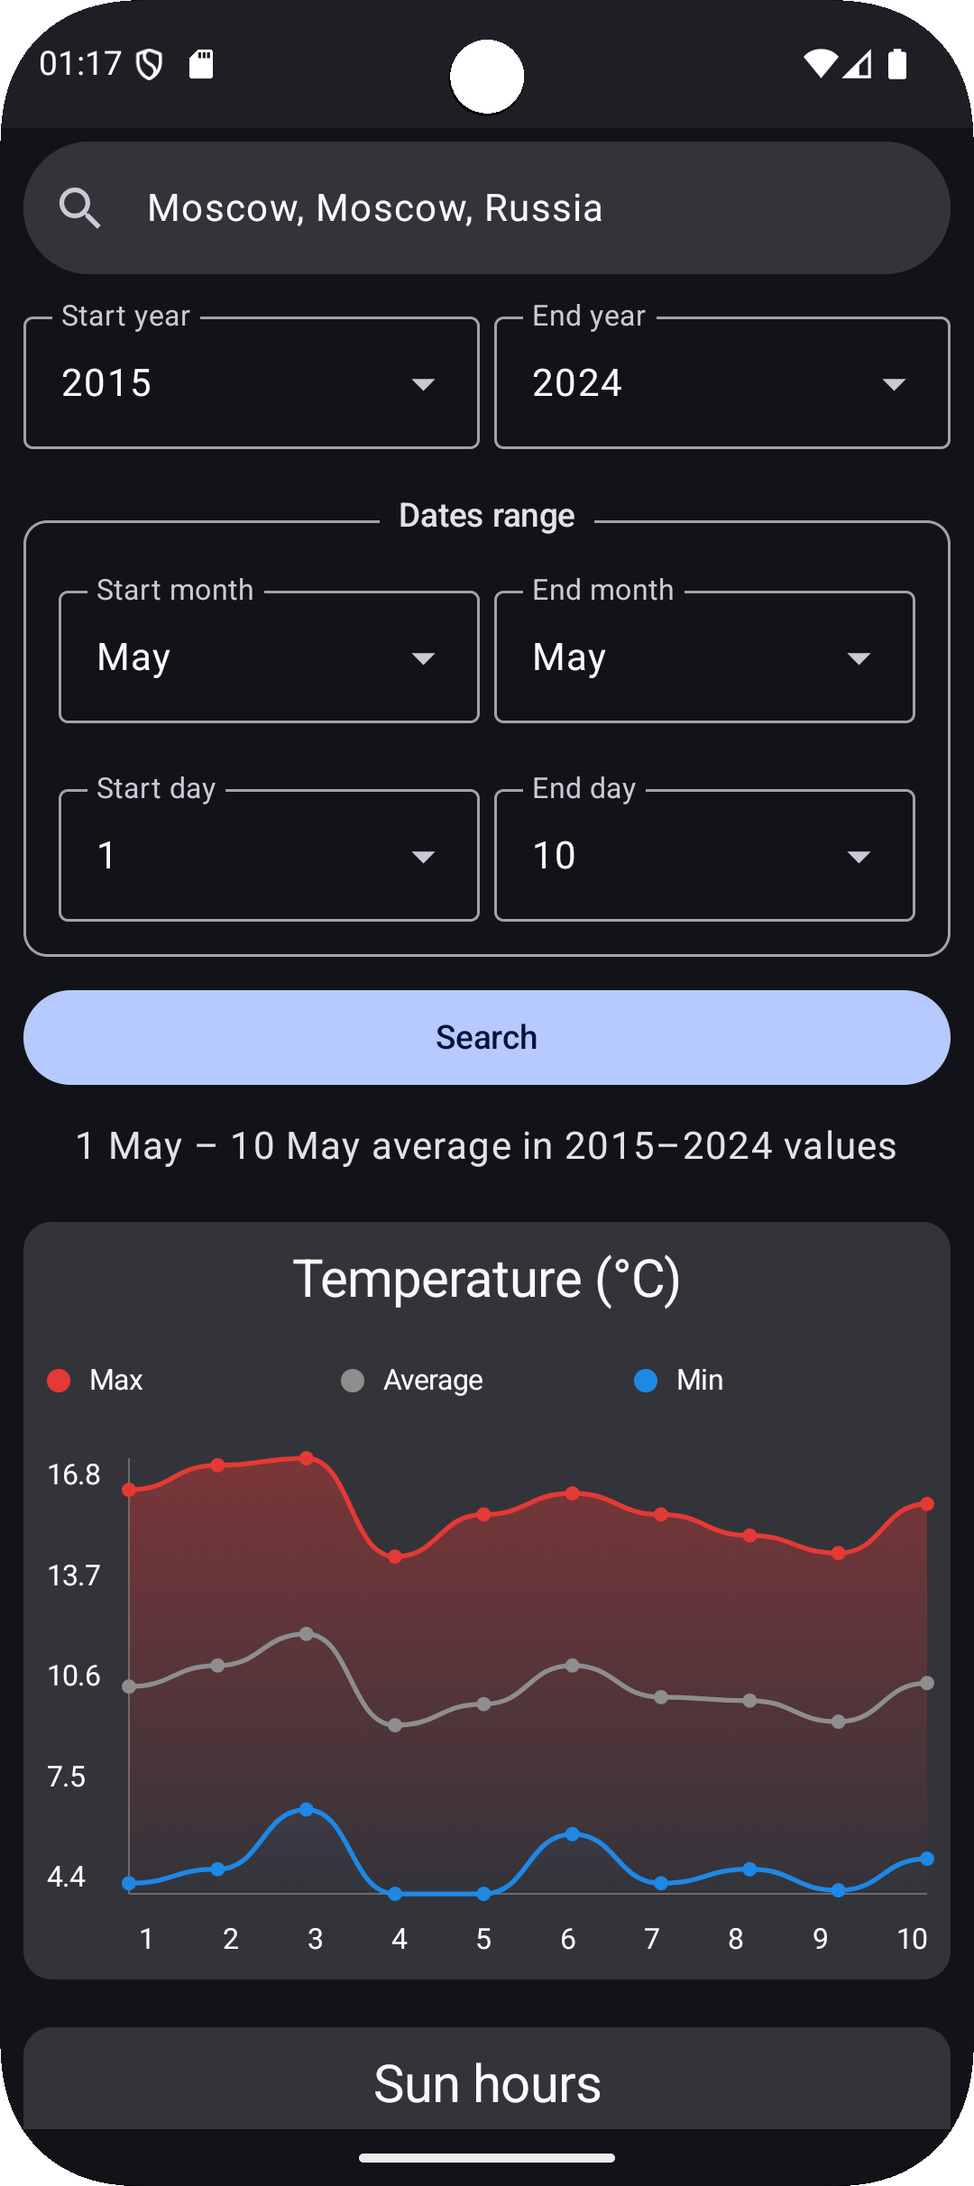
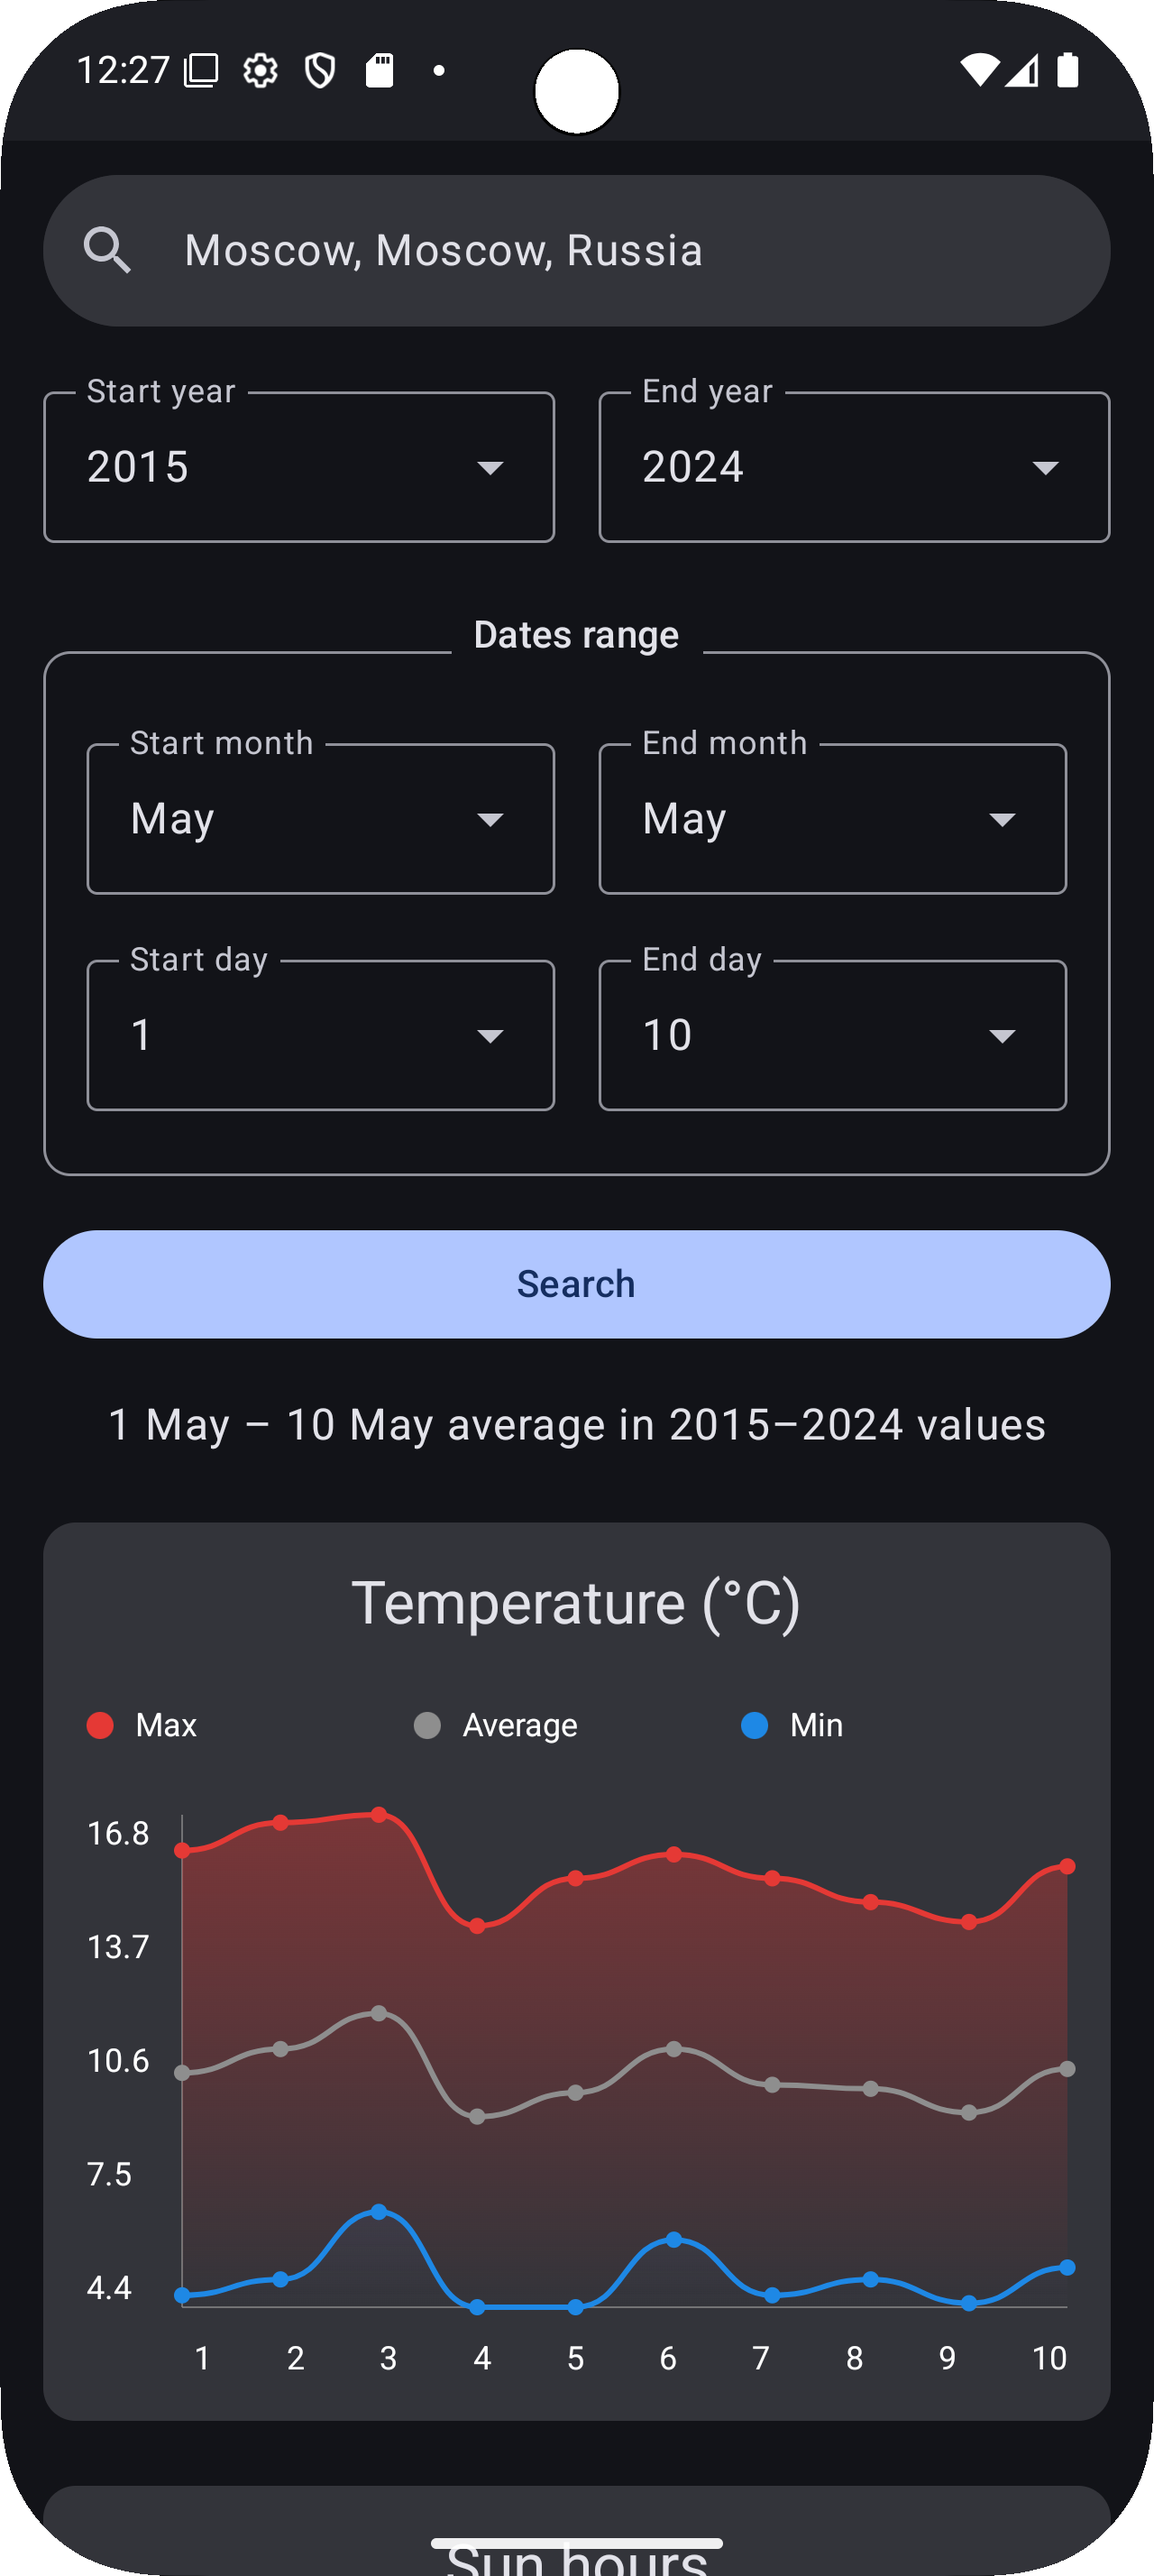
Refactor: Adjust padding in UI components and update screenshots
This commit modifies padding values in `LocationSearch.kt` and `MainScreenUI.kt` for improved layout. It also updates several screenshots to reflect these UI changes and updates the default deployment target in the IDE settings.

- In `LocationSearch.kt`, card padding is changed from `5.dp` to `6.dp`.
- In `MainScreenUI.kt`:
    - Removed bottom padding from the main `Column`.
    - Added `16.dp` bottom padding to the "Data Source" `Row`.
- Updated screenshots: `graph1.png`, `graph2.png`, `main_screen.png`, `search.png`.
- Updated the default deployment target in `deploymentTargetSelector.xml` to `Pixel_9_Pro.avd`.

diff --git a/app/src/main/java/com/hsact/sunplanner/ui/mainscreen/MainScreenUI.kt b/app/src/main/java/com/hsact/sunplanner/ui/mainscreen/MainScreenUI.kt
@@ -127,11 +127,10 @@ fun MainScreen(
             }
         }
         val topPadding = if (isSearchExpanded) 0.dp else innerPadding.calculateTopPadding()
-        val bottomPadding = innerPadding.calculateBottomPadding()
         Column(
             modifier = modifier
                 .fillMaxSize()
-                .padding(top = topPadding, bottom = bottomPadding)
+                .padding(top = topPadding)
                 .verticalScroll(scrollState)
         ) {
             val windowInfo = LocalWindowInfo.current
@@ -209,7 +208,7 @@ fun MainScreen(
                     Row(
                         modifier
                             .fillMaxWidth()
-                            .padding(start = 16.dp, end = 16.dp)
+                            .padding(start = 16.dp, end = 16.dp, bottom = 16.dp)
                     ) {
                         Text(stringResource(R.string.data_source))
                     }

diff --git a/app/src/main/java/com/hsact/sunplanner/ui/components/LocationSearch.kt b/app/src/main/java/com/hsact/sunplanner/ui/components/LocationSearch.kt
@@ -177,7 +177,7 @@ private fun CityCard(
     Card(
         modifier = Modifier
             .fillMaxWidth()
-            .padding(start = 5.dp, end = 5.dp, bottom = 5.dp)
+            .padding(start = 6.dp, end = 6.dp, bottom = 6.dp)
             .clickable {
                 keyboardController?.hide()
                 focusManager.clearFocus(force = true)
